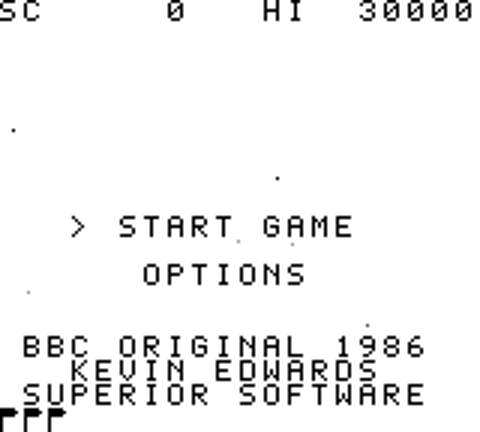
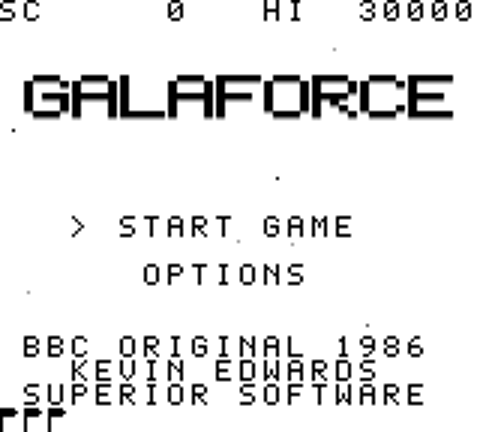
Add title-to-demo GIF, refresh screenshots and README

Changed region(s): [[0.0312, 0.1505, 0.9688, 0.3009], [0.6875, 0.0903, 0.7188, 0.1204]]

diff --git a/tools/makegif.py b/tools/makegif.py
@@ -1,0 +1,28 @@
+"""Records docs/screenshots/demo.gif: the title screen (idle wait skipped after a few seconds) moving into the demo waves."""
+import sys, os, warnings
+warnings.filterwarnings("ignore")
+sys.path.insert(0, "tools")
+from PIL import Image
+from run_headless import make, load_syms
+rom = "galaforce.gb"
+if os.path.exists(rom + ".ram"): os.remove(rom + ".ram")
+pb = make(rom); S = load_syms(rom); m = pb.memory
+while m[S["wFrame"]] < 20: pb.tick(1, False)
+STEP = 4
+frames = []
+def grab():
+    pb.tick(1, True)
+    frames.append(pb.screen.image.copy().convert("L").resize((320, 288), Image.NEAREST))
+n = 0
+while m[S["wDemo"]] == 0 and n < 3000:
+    for i in range(STEP - 1): pb.tick(1, False)
+    grab(); n += STEP
+    if n == 240: m[S["wIdle"] + 1] = 2          # skip most of the ~13 s idle wait
+start = len(frames)
+for _ in range(60 * 14 // STEP):                 # about 14 s of demo play
+    for i in range(STEP - 1): pb.tick(1, False)
+    grab()
+pal = frames[0].quantize(4) if False else None
+q = [f.convert("P", palette=Image.ADAPTIVE, colors=4) for f in frames]
+q[0].save("docs/screenshots/demo.gif", save_all=True, append_images=q[1:], duration=STEP * 1000 // 60, loop=0, optimize=True)
+print(len(frames), "frames, demo starts at", start, os.path.getsize("docs/screenshots/demo.gif") // 1024, "KB")

diff --git a/README.md b/README.md
@@ -2,6 +2,8 @@
 
 A Game Boy (DMG) remake of Kevin Edwards' BBC Micro shoot-'em-up *Galaforce* (1986). It keeps the original formations, flight paths and wave data, redraws the sprites for the Game Boy's small 4-shade screen, and recreates the original music and sound effects. Written in SM83 assembly (RGBDS) with Python tooling. Original source: https://github.com/KevEdwards/Galaforce1BBC (cloned to `ref/`). Personal project, not for distribution.
 
+![Title screen into the demo](docs/screenshots/demo.gif)
+
 | White background (default) | Black background |
 |---|---|
 | ![Title](docs/screenshots/title_white.png) | ![Title](docs/screenshots/title_black.png) |
@@ -18,10 +20,10 @@ D-pad move, A fire, Start pause, A+B+Select+Start soft reset. Title and options:
 
 ## Features
 - Title styled after the BBC original (SC/HI line, wide logo, small "BBC original 1986 / Kevin Edwards / Superior Software" credit, flags, occasional shine sweep, and the same scrolling starfield as in-game. Idles into a self-playing demo after about 13 s; any Start returns.
-- Options: starting lives 1-5 and a black or white background (white is the default); both are saved in battery RAM.
-- Cheat: on the options screen press Up, Up, Down, Down, Select to unlock a LEVEL row (1-16, not saved).
+- Options: starting lives 1-5, continues 0-3 (default 1; game over asks CONTINUE? YES/NO and replays the wave with full lives) and a black or white background (white is the default); all saved in battery RAM.
+- Cheat: on the options screen press Up, Up, Down, Down, Select to unlock a WAVE row (1-16, not saved).
 - Screen fades, pause dimming, hi-score saved to SRAM.
 
 ## Tools and docs
-`tools/`: `bot.py`, `audit.py`, `savetest.py`, `demotest.py`, `optionstest.py`, `cheattest.py`, `sfxlevels.py`, `audiotest.py`, `snap.py`, `screenshots.py` (regenerates `docs/screenshots/`; run `make` and `make god` first).
+`tools/`: `bot.py`, `audit.py`, `savetest.py`, `demotest.py`, `optionstest.py`, `cheattest.py`, `continuetest.py`, `makegif.py` (records `docs/screenshots/demo.gif`), `sfxlevels.py`, `audiotest.py`, `snap.py`, `screenshots.py` (regenerates `docs/screenshots/`; run `make` and `make god` first).
 See `00-OVERVIEW.md`, `docs/DECISIONS.md` and `docs/PROGRESS.md` and `docs/FIXES.md` (playtest fixes). Stage plans `STAGE-01` to `STAGE-12` are all done.
